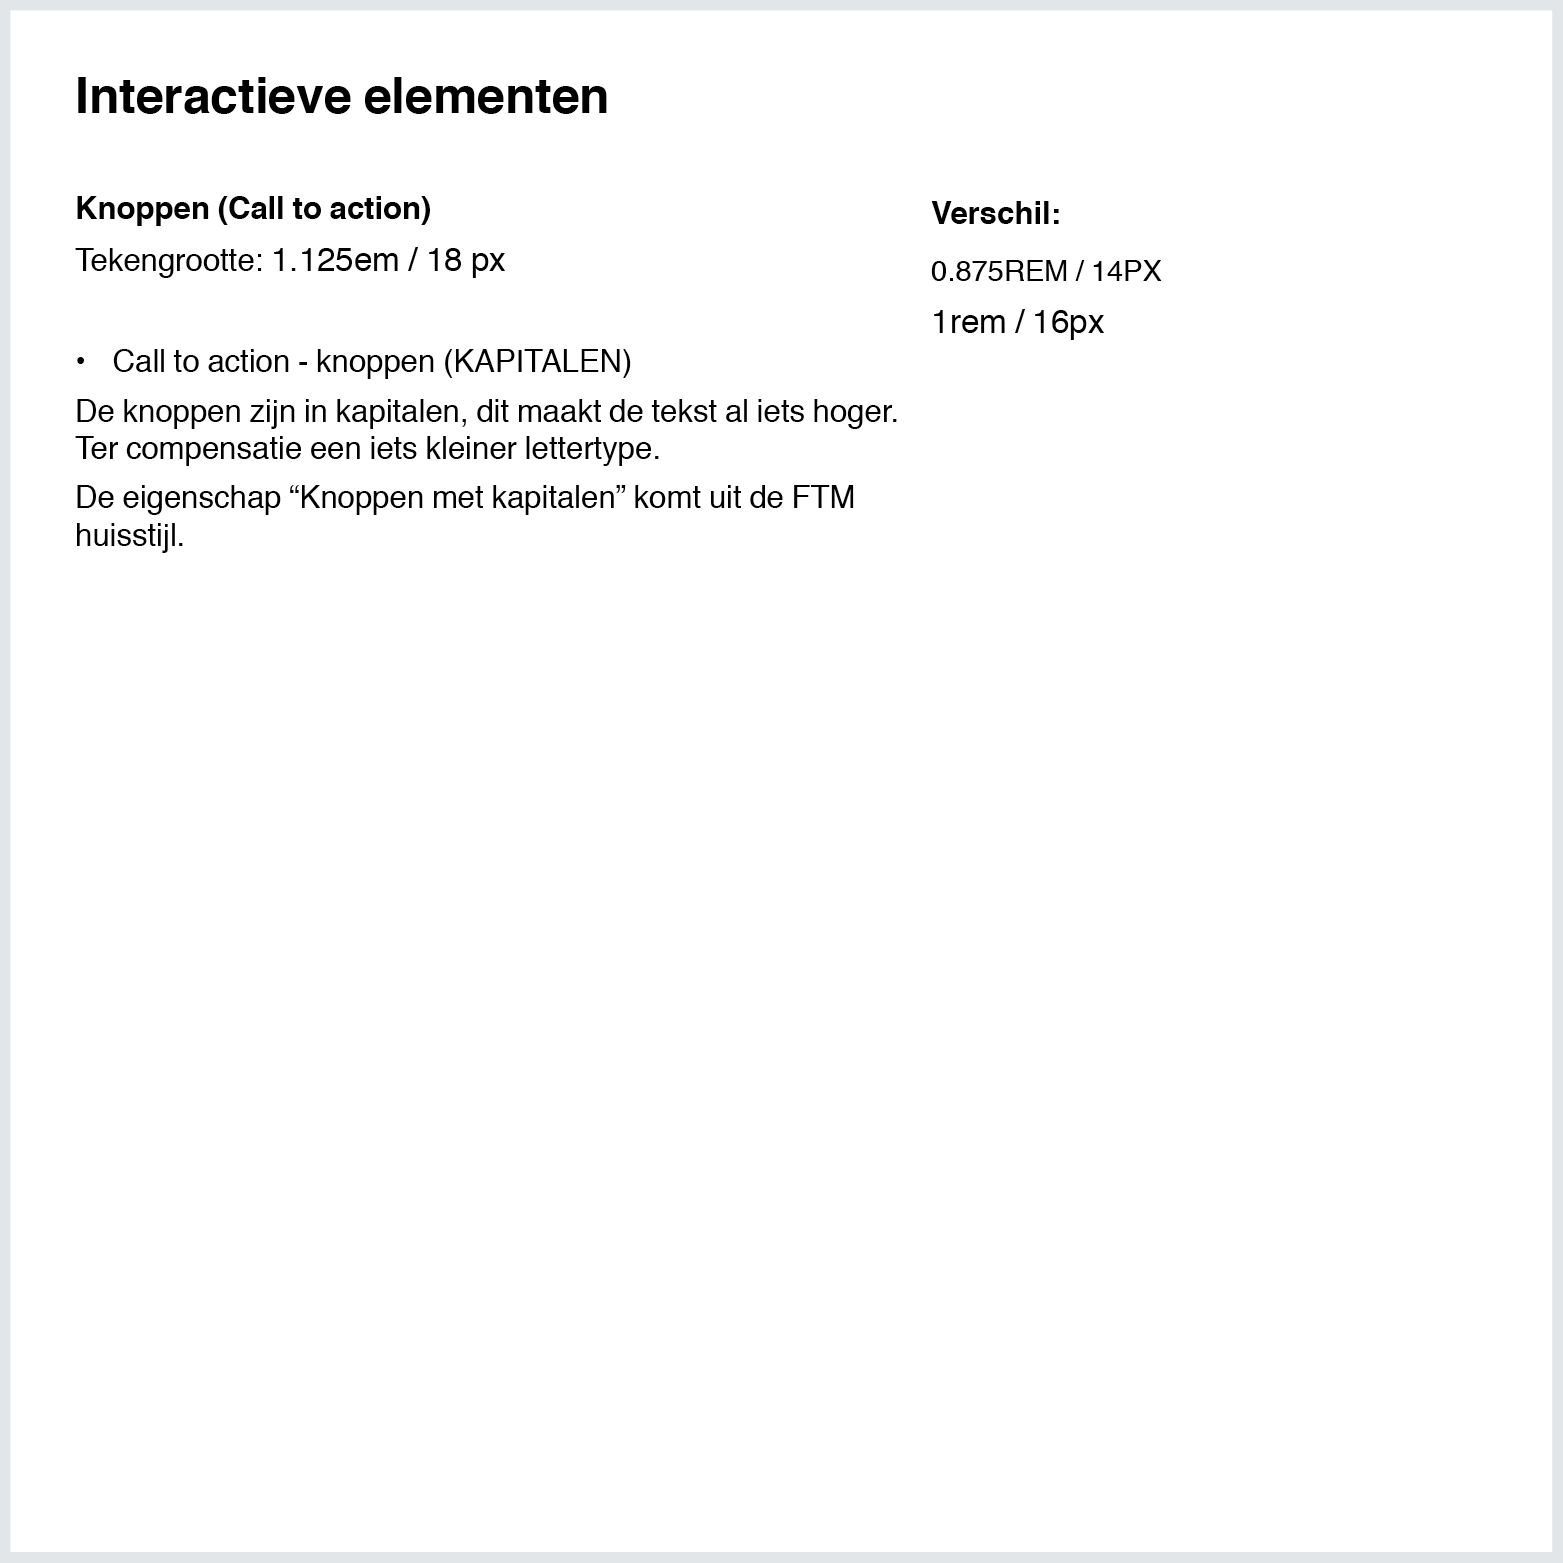
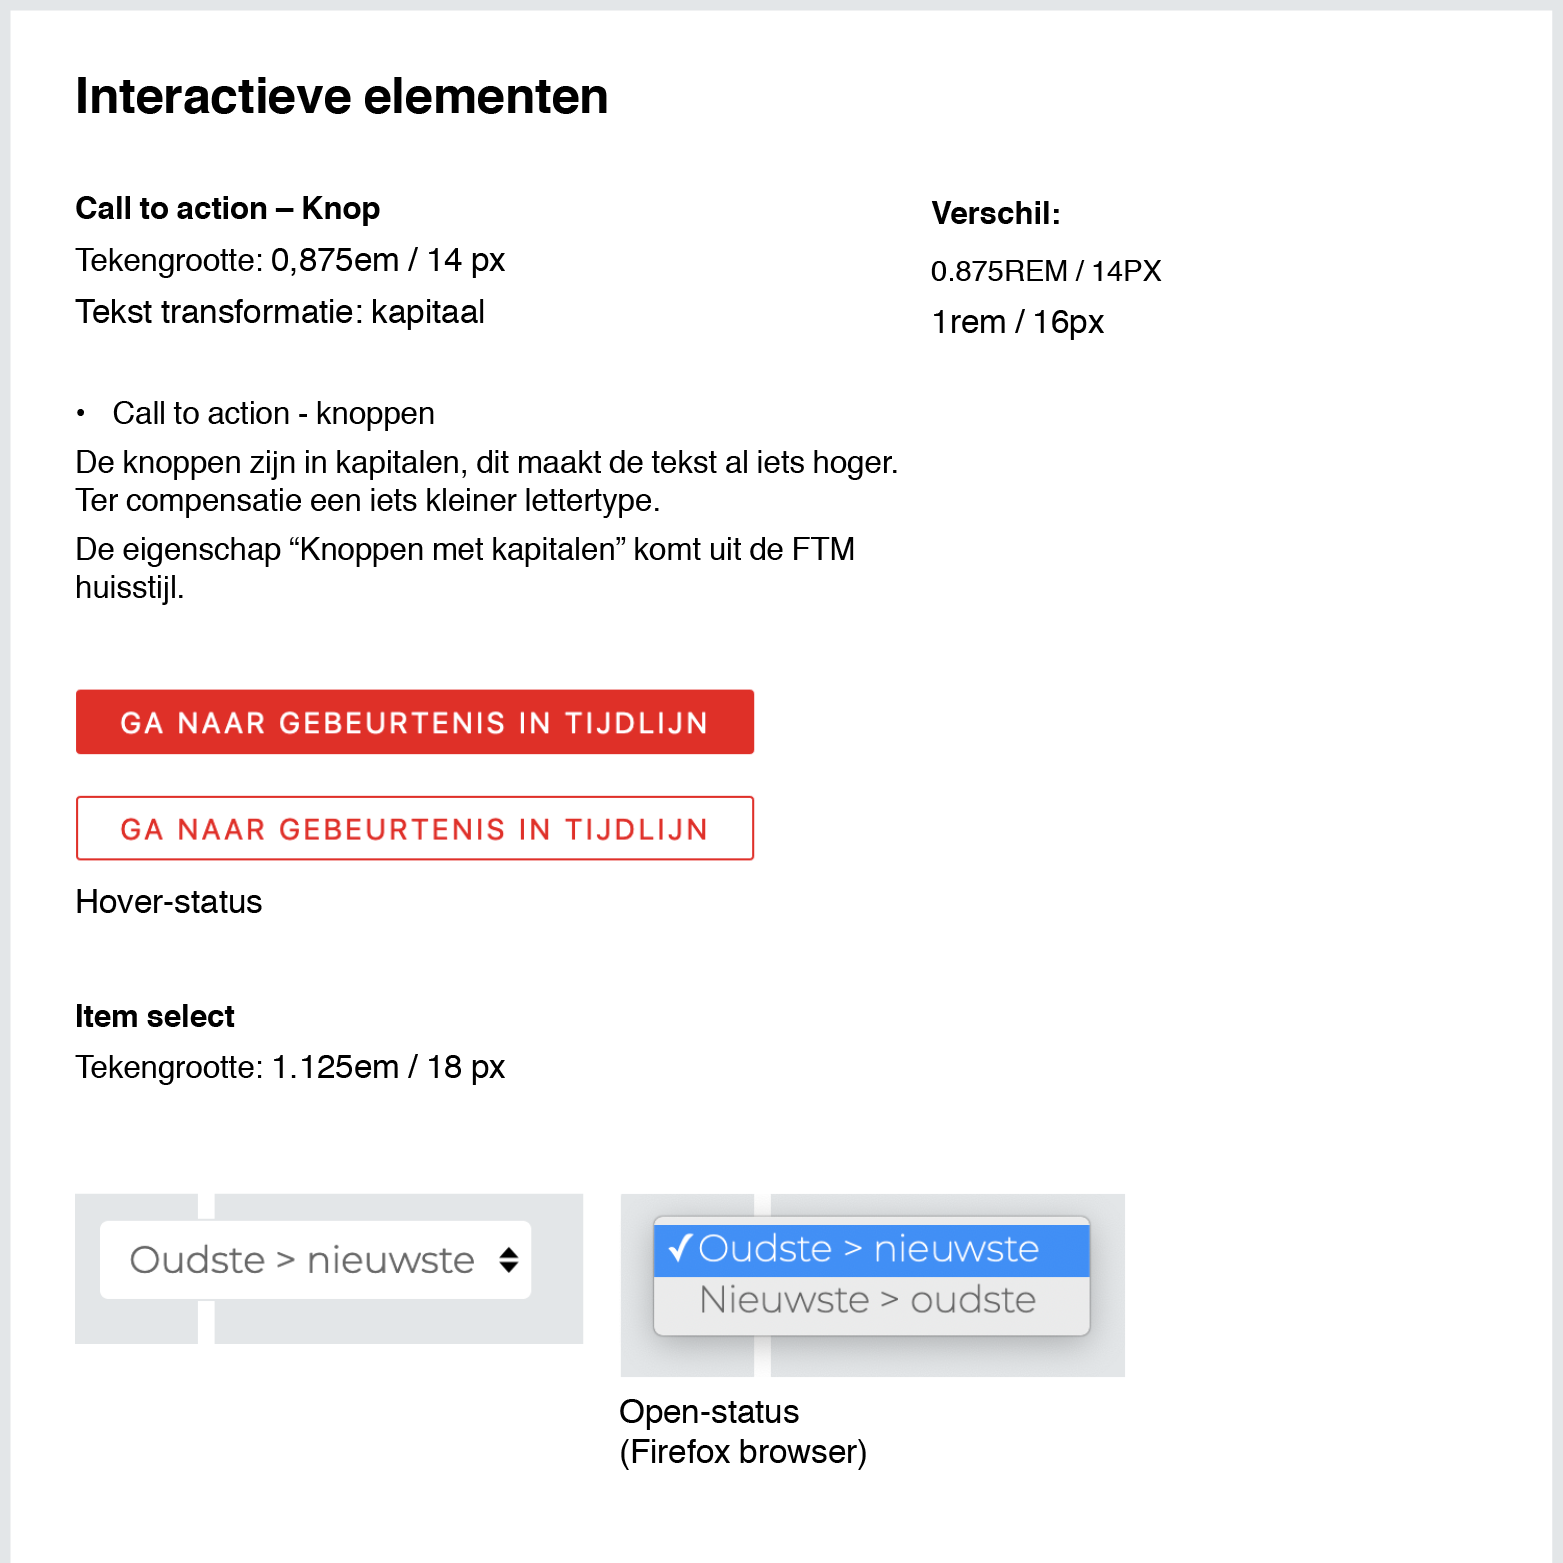
.

diff --git a/docs/pages/stijlgids/README.md b/docs/pages/stijlgids/README.md
@@ -4,8 +4,8 @@ Inbegrepen
 - [x] Kleurgebruik
 - [x] Logo en beeldmerk
 - [x] Lettertype
-- [ ] Fontgebruik (70%)
-- [ ] Interactie elementen (10%)
+- [x] Fontgebruik
+- [x] Interactie elementen
 
 
 ![Kleurgebruik](content/stijlgids.png)
@@ -16,4 +16,11 @@ Inbegrepen
 
 ![Fontgebruik](content/stijlgids4.png)
 
-![Interactie elementen](content/stijlgids5.png)
+![Call to action en select item](content/stijlgids5.png)
+
+![Gekoppelde onderdelen](content/stijlgids6.png)
+
+![Grid onderdelen en Toon meer of minder knop](content/stijlgids8.png)
+
+
+![Ga naar content](content/stijlgids9.png)
